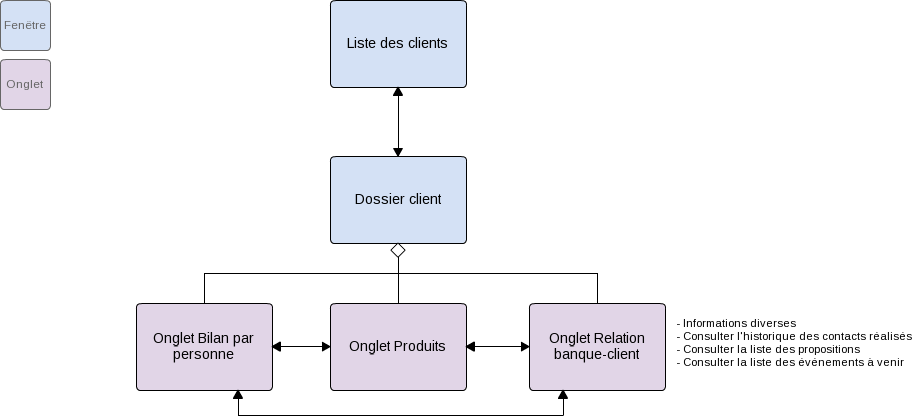
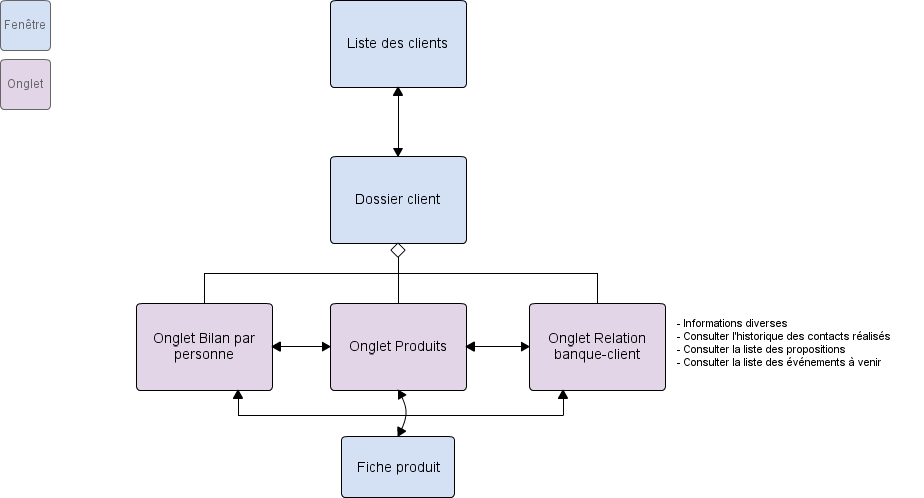
EDF client modifié + EDF contact modifié + IHM Détail Contact modifiée + Liste Services IHM modifiée

diff --git a/ConceptionDetaillee/ListeService.tex b/ConceptionDetaillee/ListeService.tex
@@ -1,68 +1,88 @@
 \section{Listes des services}
-\subsection{IHM Client}
-\subsubsection*{Informations générales}
-\begin{itemize}
-\item ConsulterInfosClient
-\item ModifierInfosClient
-\end{itemize}
-\subsubsection*{Bilan par personne}
-\begin{itemize}
-\item ConsulterBilan 
-\item ModifierBilan 
-\item AjouterPersonne 
-\item SupprimerPersonne
-\end{itemize}
-\subsubsection*{Produit}
-\begin{itemize}
-\item ConsulterComptesClient 
-\item AfficherProduits 
-\item SelectionnerProduit 
-\item ConsulterFicheProduit
-\end{itemize}
 
-\subsubsection*{Relation banque client}
-\begin{itemize}
-\item ConsulterInfos
-\item ConsulterHistoriqueContacts  
-\item ConsulterPropositions 
-\item ConsulterEvénements 
-
-\end{itemize}
-\subsection{IHM Contact}
-
-\subsubsection*{Liste Contact}
-\begin{itemize}
-\item ConsulterContact
-\item AjouterContacts  
-\item SupprimerContacts 
-\item ActualiserContacts
-\end{itemize}
-
-\subsubsection*{Informations générales}
-\begin{itemize}
-\item VisualiserInfosContact
-\item ConsulterDossierClient
-\end{itemize}
-
-\subsubsection*{Historique des changements d'état}
-\begin{itemize}
-\item ConsulterHistoChangementEtat
-\end{itemize}
-
-\subsubsection*{Propositions à faire}
-\begin{itemize}
-\item ConsulterProposition
-\item ModifierProposition
-\end{itemize}
-
-\subsubsection*{CR de préparation d'entretien}
-\begin{itemize}
-\item VisualiserCR
-\item ModifierCR
-\end{itemize}
-
-\subsubsection*{Rapport activité commercial}
-\begin{itemize}
-\item ConsulterCRentretien 
-\item ModifierCRentretien
-\end{itemize}
+	\subsection{IHM Client}
+	
+		\subsubsection*{Liste des clients}
+		\begin{itemize}
+		\item consulterDossierClient
+		\item ajouterClient
+		\item supprimerClient
+		\item actualiserListe 
+		\end{itemize}
+	
+		\subsubsection*{Informations générales}
+		\begin{itemize}
+		\item getInfosClient
+		\item sauvegarderInfosClient
+		\end{itemize}
+		
+		\subsubsection*{Bilan par personne}
+		\begin{itemize}
+		\item getBilan 
+		\item sauvegarderBilan 
+		\item ajouterPersonne 
+		\item supprimerPersonne
+		\end{itemize}
+		
+		\subsubsection*{Produits}
+		\begin{itemize}
+		\item getProduits
+		\end{itemize}
+		
+		\subsubsection*{Relation banque client}
+		\begin{itemize}
+		\item getInfosDiverses
+		\item sauvegarderInfosDiverses
+		\item getHistoriqueContactsRealises
+		\item getPropositions 
+		\item getEvenements
+		\end{itemize}
+		
+	\subsection{IHM Contact}
+	
+		\subsubsection*{Liste Contact}
+		\begin{itemize}
+		\item consulterDetailContact
+		\item ajouterContact 
+		\item supprimerContact
+		\item actualiserListe 
+		\item regrouperContacts
+		\end{itemize}
+		
+		\subsubsection*{Détail d'un contact}
+		\begin{itemize}
+		\item getInfosContact
+		\item getPropositions
+		\item ajouterProposition
+		\item supprimerProposition
+		\item setPropositionAcceptee
+		\item setPropositionRefusee
+		\item getCRPreparation
+		\item sauvegarderCRPreparation
+		\item exporterCRPreparation
+		\item getRapportActivite
+		\item sauvegarderRapportActivite
+		\item exporterRapportActivite
+		\end{itemize}
+		
+	\subsection{IHM Agenda}
+		\begin{itemize}
+		\item getAgenda
+		\item ajouterRdV
+		\item sauvegarderRdV
+		\item supprimerRdV
+		\item creerPlageAgenda
+		\end{itemize}
+		
+		
+		
+		
+		
+		
+		
+		
+		
+		
+		
+		
+		
